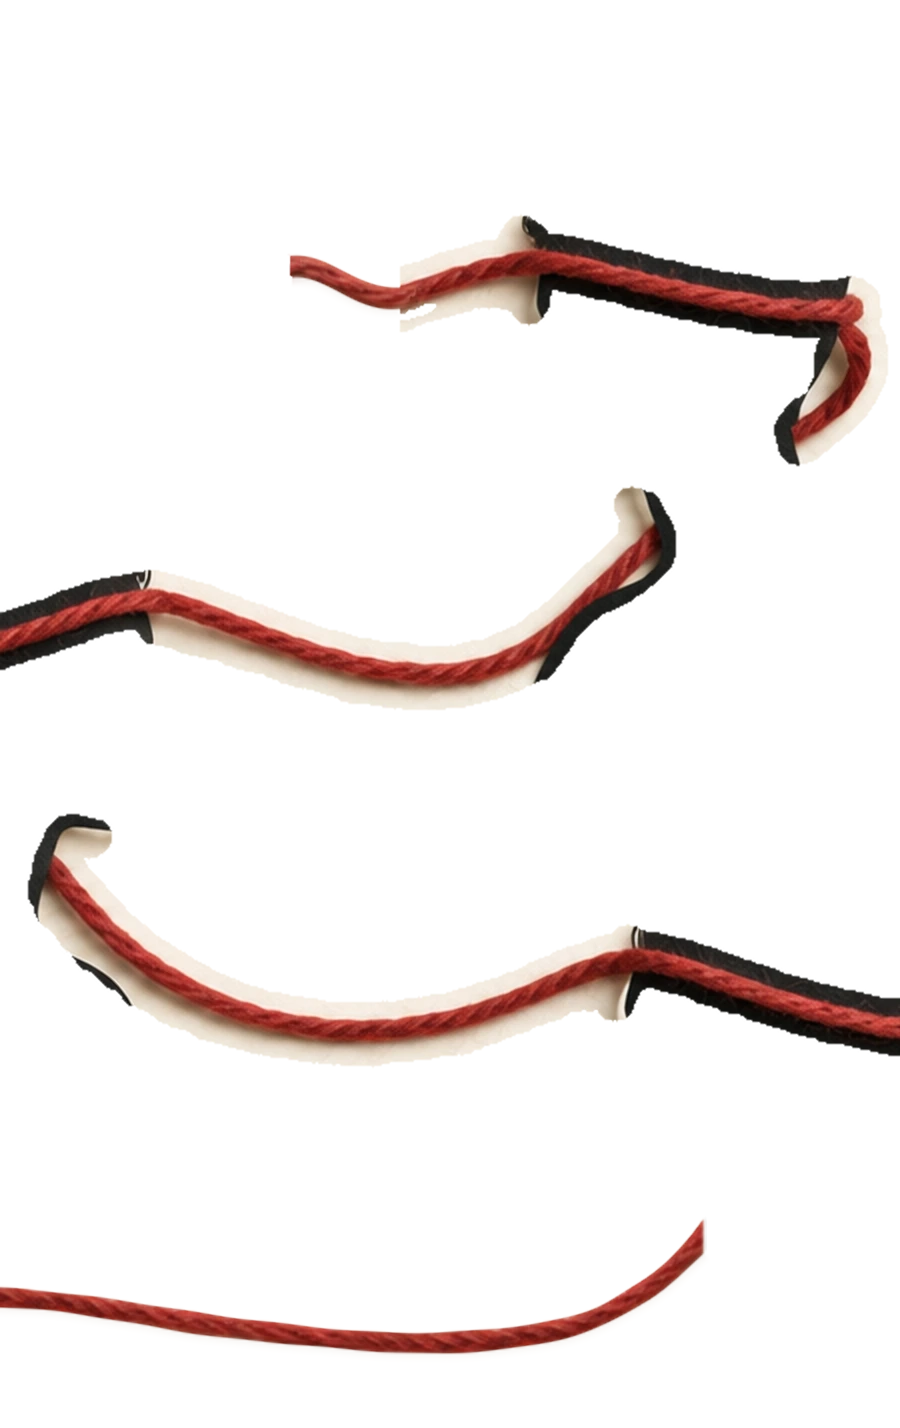
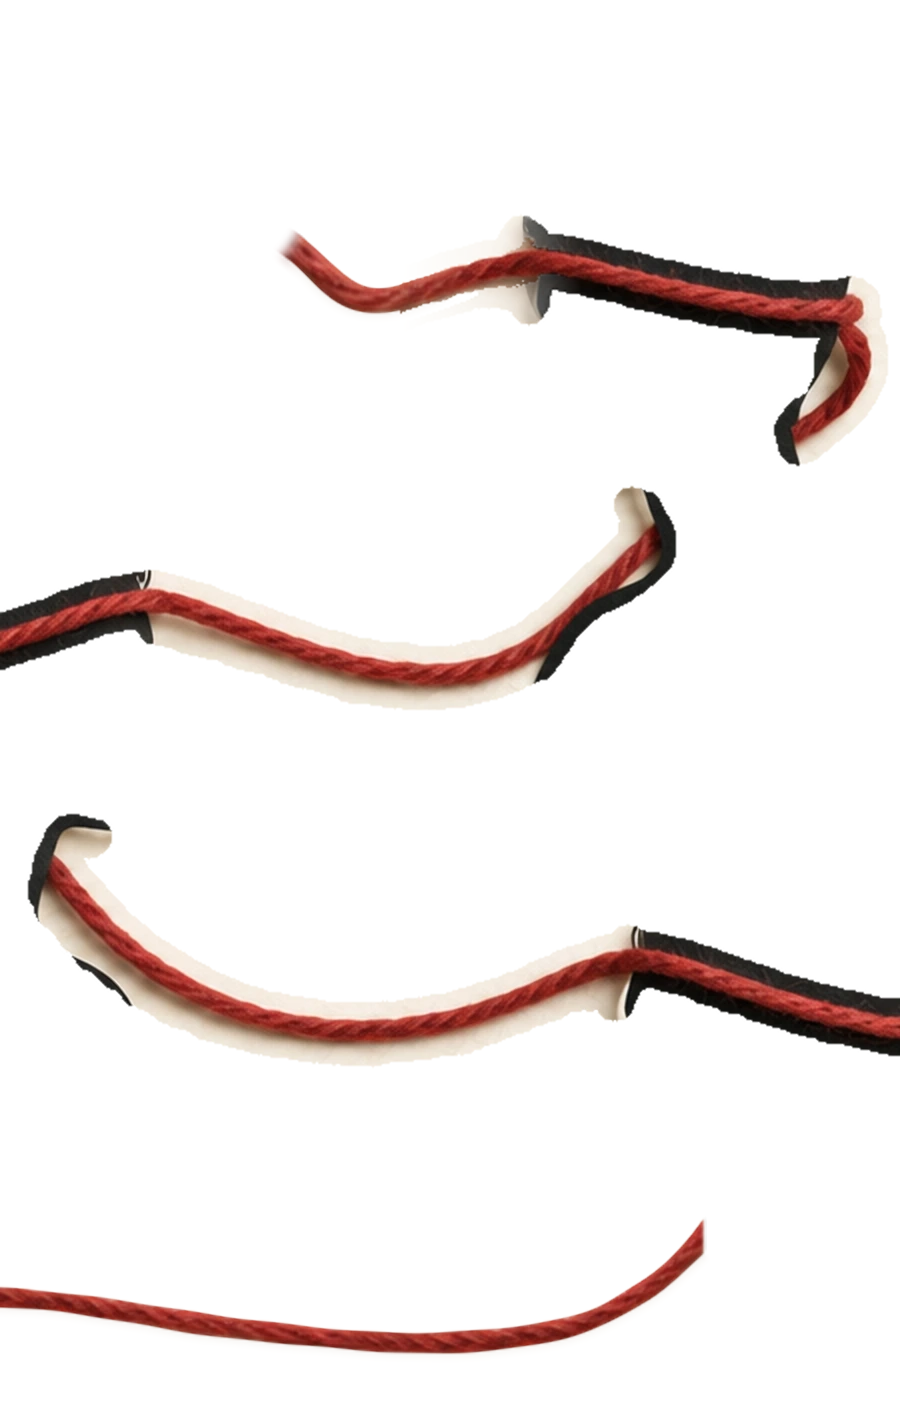
Matassa: il filo esce da sotto la palla, capo liscio, la palla gira senza bordo netto (#12)
Claude-Session: https://claude.ai/code/session_01K8S9kDcMmADtdHMs7poTsz

Changed region(s): [[0.3111, 0.1541, 0.6222, 0.2465]]

diff --git a/assets/js/matassa.js b/assets/js/matassa.js
@@ -78,12 +78,23 @@
     if (Math.abs(p - ultimo) < 0.0004) return;
     ultimo = p;
     var T = scena.T, P = T.palla, cb = cBase.getContext('2d');
-    // la matassa gira mentre si srotola (la foto intera e' gia' sotto: si ridisegna solo la palla)
-    cb.save();
-    cb.beginPath(); cb.arc(P.x, P.y, P.r, 0, Math.PI * 2); cb.clip();
-    cb.translate(P.x, P.y); cb.rotate(-p * Math.PI * 1.6); cb.translate(-P.x, -P.y);
-    cb.drawImage(scena.base, 0, 0);
-    cb.restore();
+    // la matassa gira mentre si srotola. Si ridisegna solo il riquadro della palla: prima la
+    // foto ferma, poi la palla girata, che sfuma verso il bordo cosi' il cerchio non si vede
+    var lato = Math.ceil(P.r * 2 + 4), x0 = Math.round(P.x - lato / 2), y0 = Math.round(P.y - lato / 2);
+    var sx = Math.max(0, x0), sy = Math.max(0, y0);
+    cb.drawImage(scena.base, sx, sy, lato - (sx - x0), lato - (sy - y0), sx, sy, lato - (sx - x0), lato - (sy - y0));
+    var g = scena.giro || (scena.giro = document.createElement('canvas'));
+    g.width = g.height = lato;
+    var gc = g.getContext('2d');
+    gc.translate(P.x - x0, P.y - y0); gc.rotate(-p * Math.PI * 1.6); gc.translate(-P.x, -P.y);
+    gc.drawImage(scena.base, 0, 0);
+    gc.setTransform(1, 0, 0, 1, 0, 0);
+    gc.globalCompositeOperation = 'destination-in';
+    var sf = gc.createRadialGradient(P.x - x0, P.y - y0, P.r * 0.8, P.x - x0, P.y - y0, P.r);
+    sf.addColorStop(0, 'rgba(0,0,0,1)'); sf.addColorStop(1, 'rgba(0,0,0,0)');
+    gc.fillStyle = sf; gc.fillRect(0, 0, lato, lato);
+    gc.globalCompositeOperation = 'source-over';
+    cb.drawImage(g, x0, y0);
     // il filo: tutto quello che e' gia' uscito, con un capo netto
     var od = scena.out.data, idx = scena.idx, a0 = scena.a0, tt = scena.tt, N = idx.length;
     var punta = T.punta, fine = p * (1 + punta);

diff --git a/index.html b/index.html
@@ -591,7 +591,7 @@
 </footer>
 
 <!-- prima la matassa: se c'e', site.js non disegna il filo colorato dell'apertura -->
-<script src="assets/js/matassa.js?v=20261003m" defer></script>
+<script src="assets/js/matassa.js?v=20261003q" defer></script>
 <script src="assets/js/site.js?v=20261003p" defer></script>
 <script src="assets/js/cuciture.js?v=20261003m" defer></script>
 </body>
